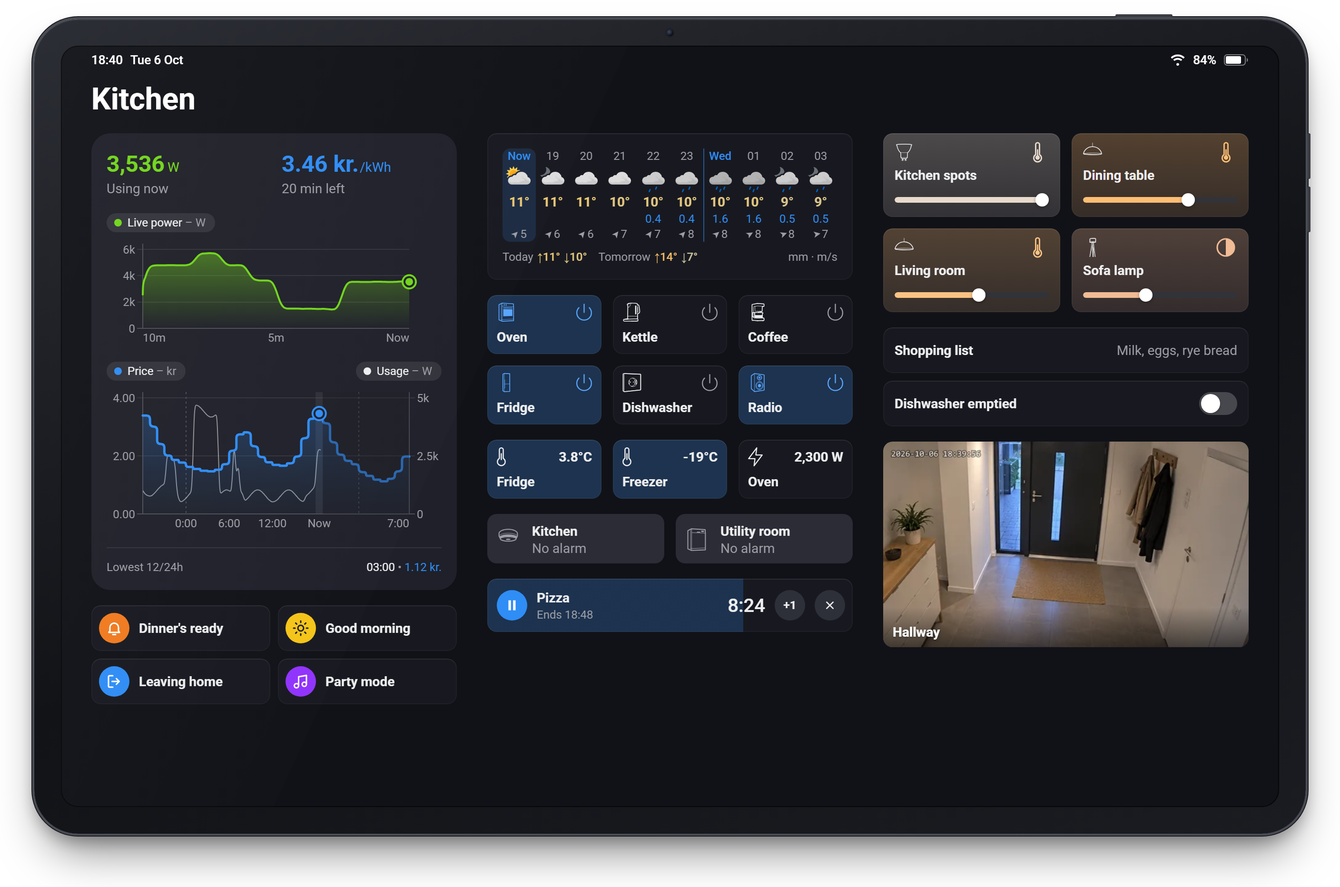
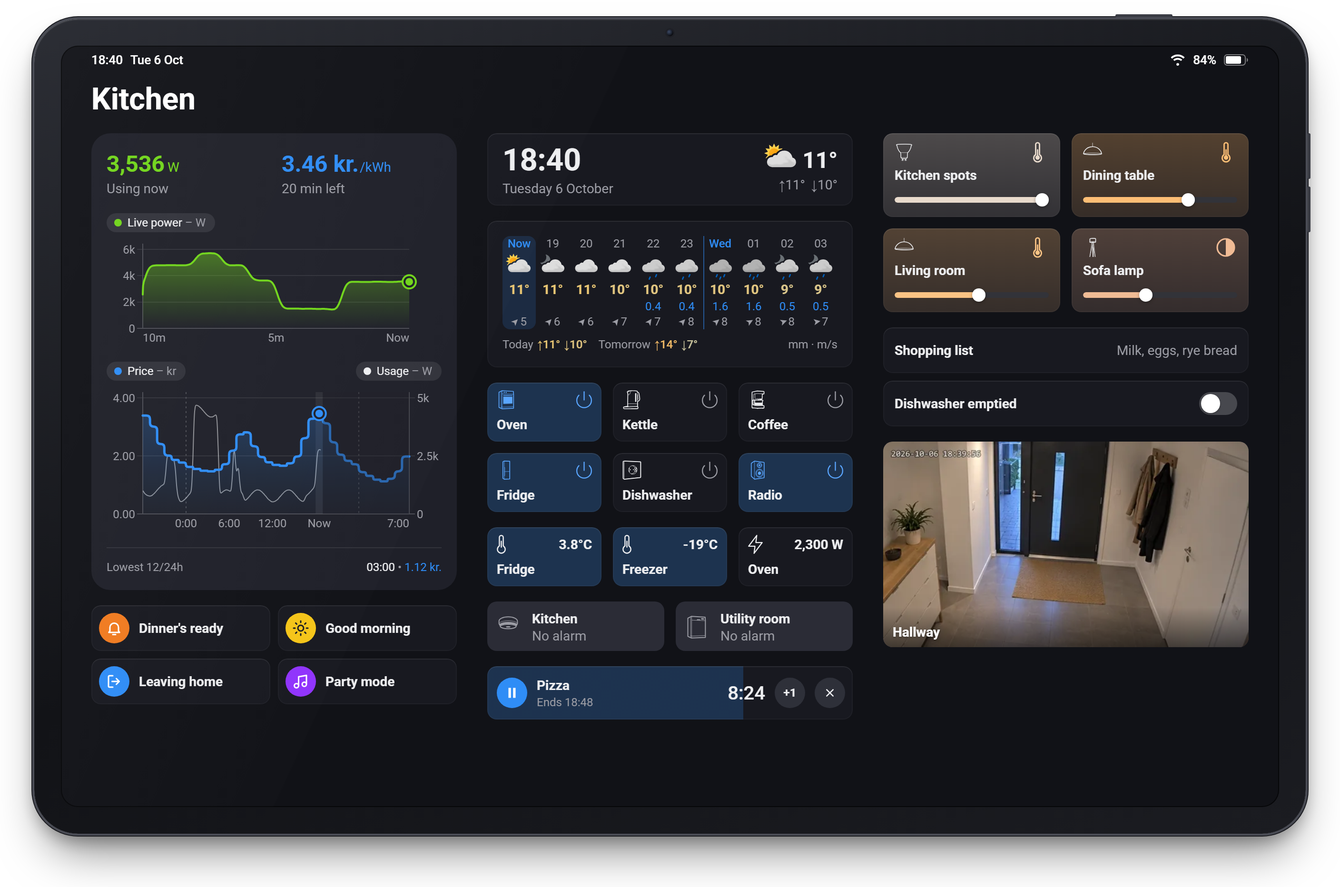
0.9.0 release prep: changelog, store text, posts, Clock on the Kitchen showcase

Changed region(s): [[0.3438, 0.1556, 0.6562, 0.809]]

diff --git a/dev/showcase.html b/dev/showcase.html
@@ -32,6 +32,7 @@
   <link rel="stylesheet" href="../widgets/sparklines/public/widget.css">
   <link rel="stylesheet" href="../widgets/media/public/widget.css">
   <link rel="stylesheet" href="../widgets/curtains/public/widget.css">
+  <link rel="stylesheet" href="../widgets/clock/public/widget.css">
   <script src="../widgets/electricity/public/widget.js"></script>
   <script src="../widgets/thermostat/public/widget.js"></script>
   <script src="../widgets/quickactions/public/widget.js"></script>
@@ -50,6 +51,7 @@
   <script src="../widgets/sparklines/public/widget.js"></script>
   <script src="../widgets/media/public/widget.js"></script>
   <script src="../widgets/curtains/public/widget.js"></script>
+  <script src="../widgets/clock/public/widget.js"></script>
   <script src="../temp/screenshot-icons.js" onerror="window.ICONS = {}"></script>
   <script src="mock-media.js"></script>
   <script src="mock-util.js"></script>

diff --git a/dev/showcase-data.js b/dev/showcase-data.js
@@ -98,6 +98,13 @@
       };
     });
   }
+  // The weather as the app's /clock reduces it: the current hour, and the rest of today's high and low.
+  function clockWeather() {
+    const hours = weatherHours();
+    const day = new Date(hours[0].t).toDateString();
+    const today = hours.filter(h => new Date(h.t).toDateString() === day).map(h => h.temp);
+    return { symbol: hours[0].symbol, temp: hours[0].temp, high: Math.max(...today), low: Math.min(...today), icon: null };
+  }
 
   // ---- Heatmaps: the last 7 days up to now, the way the app sends `/history`.
 
@@ -544,6 +551,7 @@
           ]),
         ],
         [
+          { type: 'clock', weather: clockWeather() },
           { type: 'weather', opts: { theme: 'vivid' }, hours: weatherHours() },
           { type: 'quickactions', devices: [
             { id: 'kq1', name: 'Oven', icon: icon('oven'), quickAction: qa('onoff', true) },

diff --git a/dev/mock-dashboard.js b/dev/mock-dashboard.js
@@ -52,8 +52,5 @@
 
   MOUNT.weather(el('w-weather'), { hours: findWidget('weather').hours });
 
-  // Home's weather, as the app's /clock reduces it: the current hour and the rest of today's high and low.
-  const hours = findWidget('weather').hours;
-  const today = hours.filter(h => new Date(h.t).toDateString() === new Date(hours[0].t).toDateString()).map(h => h.temp);
-  MOUNT.clock(el('w-clock'), { weather: { symbol: hours[0].symbol, temp: hours[0].temp, high: Math.max(...today), low: Math.min(...today), icon: null } });
+  MOUNT.clock(el('w-clock'), findWidget('clock'));
 })();

diff --git a/docs/community-post.md b/docs/community-post.md
@@ -17,9 +17,9 @@ Hi all,
 
 I've been building **Widgetkeeper**, an app with dashboard widgets for Homey Pro. My aim was widgets that sit next to Homey's own without standing out: the same tile sizes, fonts, colours and dark mode, so a dashboard still looks like one dashboard.
 
-> :white_check_mark: **Widgetkeeper 0.7.0 is live in the Homey App Store:** https://homey.app/a/com.thomassidor.widgetkeeper/
+> :white_check_mark: **Widgetkeeper 0.8.0 is live in the Homey App Store:** https://homey.app/a/com.thomassidor.widgetkeeper/
 >
-> :test_tube: **Test version:** the next version (0.8.0) with six new widgets is in testing. Widgets and changes marked :soon: **Next version** below are only in the test version for now: https://homey.app/a/com.thomassidor.widgetkeeper/test/
+> :test_tube: **Test version:** the next version (0.9.0), with four new widgets and web dashboards, is in testing. Widgets and changes marked :soon: **Next version** below are only in the test version for now: https://homey.app/a/com.thomassidor.widgetkeeper/test/
 
 ## The widgets
 
@@ -27,37 +27,42 @@ Tap a name for the full description and settings on GitHub.
 
 | | Widget |
 |---|---|
-| [![Electricity Overview|120x105](https://raw.githubusercontent.com/thomassidor/widgetkeeper/main/docs/previews/electricity-dark.png)](https://github.com/thomassidor/widgetkeeper#electricity-overview) | :zap: **[Electricity Overview](https://github.com/thomassidor/widgetkeeper#electricity-overview)**<br>Live power use, hourly electricity prices and usage history on one card |
-| [![Thermostat Shortcuts|120x105](https://raw.githubusercontent.com/thomassidor/widgetkeeper/main/docs/previews/thermostat-dark.png)](https://github.com/thomassidor/widgetkeeper#thermostat-shortcuts) | :thermometer: **[Thermostat Shortcuts](https://github.com/thomassidor/widgetkeeper#thermostat-shortcuts)**<br>Three one-tap presets for a thermostat, heat pump or air conditioner |
-| [![Device Quick Actions|120x105](https://raw.githubusercontent.com/thomassidor/widgetkeeper/main/docs/previews/quickactions-dark.png)](https://github.com/thomassidor/widgetkeeper#device-quick-actions) | :radio_button: **[Device Quick Actions](https://github.com/thomassidor/widgetkeeper#device-quick-actions)**<br>Compact tiles that run a device's quick action with one tap |
-| [![Sensor Alarms|120x105](https://raw.githubusercontent.com/thomassidor/widgetkeeper/main/docs/previews/sensoralarms-dark.png)](https://github.com/thomassidor/widgetkeeper#sensor-alarms) | :rotating_light: **[Sensor Alarms](https://github.com/thomassidor/widgetkeeper#sensor-alarms)**<br>Tiles that show a sensor's alarm and turn red when one is on |
-| [![Sensor Dots|120x105](https://raw.githubusercontent.com/thomassidor/widgetkeeper/main/docs/previews/sensordots-dark.png)](https://github.com/thomassidor/widgetkeeper#sensor-dots) | :large_blue_circle: **[Sensor Dots](https://github.com/thomassidor/widgetkeeper#sensor-dots)** :soon: **Next version**<br>Many motion and contact sensors at a glance, as dots that change colour when active |
-| [![Weather Forecast|120x105](https://raw.githubusercontent.com/thomassidor/widgetkeeper/main/docs/previews/weather-dark.png)](https://github.com/thomassidor/widgetkeeper#weather-forecast) | :sun_behind_rain_cloud: **[Weather Forecast](https://github.com/thomassidor/widgetkeeper#weather-forecast)**<br>The next 36 hours, hour by hour, from MET Norway (yr.no) |
-| [![Insights Heatmap|120x105](https://raw.githubusercontent.com/thomassidor/widgetkeeper/main/docs/previews/heatmap-dark.png)](https://github.com/thomassidor/widgetkeeper#insights-heatmap) | :calendar: **[Insights Heatmap](https://github.com/thomassidor/widgetkeeper#insights-heatmap)**<br>A week of one value (light, temperature, motion …) as a grid of weekdays and hours |
-| [![Cameras|120x105](https://raw.githubusercontent.com/thomassidor/widgetkeeper/main/docs/previews/cameras-dark.png)](https://github.com/thomassidor/widgetkeeper#cameras) | :movie_camera: **[Cameras](https://github.com/thomassidor/widgetkeeper#cameras)**<br>Two to six cameras in one grid of snapshots; tap one to watch it live |
-| [![Device Values|120x105](https://raw.githubusercontent.com/thomassidor/widgetkeeper/main/docs/previews/values-dark.png)](https://github.com/thomassidor/widgetkeeper#device-values) | :1234: **[Device Values](https://github.com/thomassidor/widgetkeeper#device-values)**<br>Compact tiles that each show one value, such as a temperature, power or on/off |
-| [![Light Controls|120x105](https://raw.githubusercontent.com/thomassidor/widgetkeeper/main/docs/previews/lights-dark.png)](https://github.com/thomassidor/widgetkeeper#light-controls) | :bulb: **[Light Controls](https://github.com/thomassidor/widgetkeeper#light-controls)**<br>Compact light tiles with brightness, colour and colour temperature: six lights in the space of three |
-| [![Sparklines|120x105](https://raw.githubusercontent.com/thomassidor/widgetkeeper/main/docs/previews/sparklines-dark.png)](https://github.com/thomassidor/widgetkeeper#sparklines) | :chart_with_upwards_trend: **[Sparklines](https://github.com/thomassidor/widgetkeeper#sparklines)**<br>Tiles with a small chart of a value over the last hour, day or week, with its lowest and highest |
-| [![Flow Variables|120x105](https://raw.githubusercontent.com/thomassidor/widgetkeeper/main/docs/previews/variables-dark.png)](https://github.com/thomassidor/widgetkeeper#flow-variables) | :twisted_rightwards_arrows: **[Flow Variables](https://github.com/thomassidor/widgetkeeper#flow-variables)** :soon: **Next version**<br>Compact rows to switch flow variables on and off or change a number or text, with the full name |
-| [![Flow Buttons|120x105](https://raw.githubusercontent.com/thomassidor/widgetkeeper/main/docs/previews/flows-dark.png)](https://github.com/thomassidor/widgetkeeper#flow-buttons) | :arrow_forward: **[Flow Buttons](https://github.com/thomassidor/widgetkeeper#flow-buttons)** :soon: **Next version**<br>Start flows with one tap: a round button in the colour and icon you pick, with the flow's name |
-| [![Price Badge|120x105](https://raw.githubusercontent.com/thomassidor/widgetkeeper/main/docs/previews/price-dark.png)](https://github.com/thomassidor/widgetkeeper#price-badge) | :moneybag: **[Price Badge](https://github.com/thomassidor/widgetkeeper#price-badge)** :soon: **Next version**<br>The electricity price now, the next hour's and the cheapest hour ahead in one compact tile |
-| [![Timers|120x105](https://raw.githubusercontent.com/thomassidor/widgetkeeper/main/docs/previews/timers-dark.png)](https://github.com/thomassidor/widgetkeeper#timers) | :stopwatch: **[Timers](https://github.com/thomassidor/widgetkeeper#timers)** :soon: **Next version**<br>Kitchen timers from one-tap presets, with a Flow card when one runs out |
-| [![Locks and Doors|120x105](https://raw.githubusercontent.com/thomassidor/widgetkeeper/main/docs/previews/locks-dark.png)](https://github.com/thomassidor/widgetkeeper#locks-and-doors) | :lock: **[Locks and Doors](https://github.com/thomassidor/widgetkeeper#locks-and-doors)** :soon: **Next version**<br>One line that says whether every lock and door is locked and closed |
+| [![Electricity Overview|120x105](upload://oMEhI5X6oylOIbhUrqxxiyUoxzf.png)](https://github.com/thomassidor/widgetkeeper#electricity-overview) | **[Electricity Overview](https://github.com/thomassidor/widgetkeeper#electricity-overview)**<br>Live power use, hourly electricity prices and usage history on one card |
+| [![Thermostat Shortcuts|120x105](upload://g66Fnaa42AMdem0f5uFgnQ3hR5q.png)](https://github.com/thomassidor/widgetkeeper#thermostat-shortcuts) | **[Thermostat Shortcuts](https://github.com/thomassidor/widgetkeeper#thermostat-shortcuts)**<br>Three one-tap presets for a thermostat, heat pump or air conditioner |
+| [![Device Quick Actions|120x105](upload://yTXsDGAub174pYWjS1DGcv7xqsu.png)](https://github.com/thomassidor/widgetkeeper#device-quick-actions) | **[Device Quick Actions](https://github.com/thomassidor/widgetkeeper#device-quick-actions)**<br>Compact tiles that run a device's quick action with one tap |
+| [![Sensor Alarms|120x105](upload://m4NlWt6CsNVfv1DykQjmhPlBGu4.png)](https://github.com/thomassidor/widgetkeeper#sensor-alarms) | **[Sensor Alarms](https://github.com/thomassidor/widgetkeeper#sensor-alarms)**<br>Tiles that show a sensor's alarm and turn red when one is on |
+| [![Sensor Dots|120x105](upload://iK67QdGwZXYwsSxzTNqUiFBwG5b.png)](https://github.com/thomassidor/widgetkeeper#sensor-dots) | **[Sensor Dots](https://github.com/thomassidor/widgetkeeper#sensor-dots)**<br>Many motion and contact sensors at a glance, as dots that change colour when active |
+| [![Weather Forecast|120x105](upload://mSq2ChXKzi7UUZf9yHQwzP4NNpe.png)](https://github.com/thomassidor/widgetkeeper#weather-forecast) | **[Weather Forecast](https://github.com/thomassidor/widgetkeeper#weather-forecast)**<br>The next 36 hours, hour by hour, from MET Norway (yr.no) |
+| [![Insights Heatmap|120x105](upload://3gUl8mI2CJoJV7zKr6tEYUYoeYl.png)](https://github.com/thomassidor/widgetkeeper#insights-heatmap) | **[Insights Heatmap](https://github.com/thomassidor/widgetkeeper#insights-heatmap)**<br>A week of one value (light, temperature, motion …) as a grid of weekdays and hours |
+| [![Cameras|120x105](upload://6Q5LXvEo1fkSIC3v4ggQGBZTySd.png)](https://github.com/thomassidor/widgetkeeper#cameras) | **[Cameras](https://github.com/thomassidor/widgetkeeper#cameras)**<br>Two to six cameras in one grid of snapshots; tap one to watch it live |
+| [![Device Values|120x105](upload://zgUYM1Up2RJzfH0SpDCXRe65zL0.png)](https://github.com/thomassidor/widgetkeeper#device-values) | **[Device Values](https://github.com/thomassidor/widgetkeeper#device-values)**<br>Compact tiles that each show one value, such as a temperature, power or on/off |
+| [![Light Controls|120x105](upload://AjYtZ7AZ1HgIlONXnxY3mLs3bZQ.png)](https://github.com/thomassidor/widgetkeeper#light-controls) | **[Light Controls](https://github.com/thomassidor/widgetkeeper#light-controls)**<br>Compact light tiles with brightness, colour and colour temperature: six lights in the space of three |
+| [![Sparklines|120x105](upload://2O6XmLisgL4by57eSyvK95N9CCK.png)](https://github.com/thomassidor/widgetkeeper#sparklines) | **[Sparklines](https://github.com/thomassidor/widgetkeeper#sparklines)**<br>Tiles with a small chart of a value over the last hour, day or week, with its lowest and highest |
+| [![Flow Variables|120x105](upload://2yC3iwyQorF7EgKbHAXj0DVeaPb.png)](https://github.com/thomassidor/widgetkeeper#flow-variables) | **[Flow Variables](https://github.com/thomassidor/widgetkeeper#flow-variables)**<br>Compact rows to switch flow variables on and off or change a number or text, with the full name |
+| [![Flow Buttons|120x105](upload://7AaGEulpsjMyTI3zoYF2EWrkwmf.png)](https://github.com/thomassidor/widgetkeeper#flow-buttons) | **[Flow Buttons](https://github.com/thomassidor/widgetkeeper#flow-buttons)**<br>Start flows with one tap: a round button in the colour and icon you pick, with the flow's name |
+| [![Price Badge|120x105](https://raw.githubusercontent.com/thomassidor/widgetkeeper/main/docs/previews/price-dark.png)](https://github.com/thomassidor/widgetkeeper#price-badge) | **[Price Badge](https://github.com/thomassidor/widgetkeeper#price-badge)** :soon: **New look in the next version**<br>The electricity price now and the coming hours as small bars, green, yellow or red |
+| [![Timers|120x105](upload://pPwDIqa3j2tlueBKsKXFT86XgQk.png)](https://github.com/thomassidor/widgetkeeper#timers) | **[Timers](https://github.com/thomassidor/widgetkeeper#timers)**<br>Kitchen timers from one-tap presets, with a Flow card when one runs out |
+| [![Locks and Doors|120x105](upload://hgmETIkMBWjejFXPGKqlK1gzA2V.png)](https://github.com/thomassidor/widgetkeeper#locks-and-doors) | **[Locks and Doors](https://github.com/thomassidor/widgetkeeper#locks-and-doors)**<br>One line that says whether every lock and door is locked and closed |
+| [![Curtains|120x105](https://raw.githubusercontent.com/thomassidor/widgetkeeper/main/docs/previews/curtains-dark.png)](https://github.com/thomassidor/widgetkeeper#curtains) | **[Curtains](https://github.com/thomassidor/widgetkeeper#curtains)** :soon: **Next version**<br>Curtains and blinds that open or close with one tap, with a slider for anything in between |
+| [![Media|120x105](https://raw.githubusercontent.com/thomassidor/widgetkeeper/main/docs/previews/media-dark.png)](https://github.com/thomassidor/widgetkeeper#media) | **[Media](https://github.com/thomassidor/widgetkeeper#media)** :soon: **Next version**<br>A speaker with its album art, mute, a volume that never overshoots and buttons for its sources |
+| [![Smart Stack|120x105](https://raw.githubusercontent.com/thomassidor/widgetkeeper/main/docs/previews/stack-dark.png)](https://github.com/thomassidor/widgetkeeper#smart-stack) | **[Smart Stack](https://github.com/thomassidor/widgetkeeper#smart-stack)** :soon: **Next version**<br>Several widgets in one spot, one at a time, with the one that matters brought forward |
+| [![Clock|120x105](https://raw.githubusercontent.com/thomassidor/widgetkeeper/main/docs/previews/clock-dark.png)](https://github.com/thomassidor/widgetkeeper#clock) | **[Clock](https://github.com/thomassidor/widgetkeeper#clock)** :soon: **Next version**<br>The time and the date, with the weather now and today's high and low |
 
 Every widget follows Homey's light and dark mode and is translated into all 13 of Homey's languages.
 
-## :soon: What's new in the next version (0.8.0)
+## :soon: What's new in the next version (0.9.0)
 
-Besides the six new widgets above:
+Besides the four new widgets above:
 
-* **Electricity Overview:** supports a fixed electricity price set in Homey Energy, shows solar export below zero in yellow, and the prices can be hidden.
-* **Device Values:** a Flow can colour a tile, such as red when the fridge is too warm.
-* **Light Controls:** plugs and wall switches set up as lights can be picked too, and a setting stops the brightness bar at 1 % instead of turning the light off.
-* **Insights Heatmap:** pick the colour.
-* **Thermostat Shortcuts:** a preset now always sets its temperature, also on aircons that keep a temperature per mode.
-* Clearer setting names and help texts, and a brief connection problem no longer hides a widget.
+* **Web dashboards:** your Widgetkeeper widgets in any browser on your home network, such as a wall tablet, an old iPad, a computer or a TV. Build the dashboards on the page itself; turn them on under **Apps → Widgetkeeper → Configure**.
+* **Electricity prices** now include the tariffs and taxes set up in Homey Energy, so they match Homey's own Energy tab (can be turned off).
+* **Price Badge:** a new look, with the coming 12, 24 or 36 hours as small bars and a dot over the cheapest.
+* **Tile names:** give tiles, rows and buttons your own names in Device Values, Flow Variables, Flow Buttons and Sensor Alarms.
+* **Electricity Overview** and **Thermostat Shortcuts:** a compact layout.
+* **Sparklines:** 2, 3 and 5 day spans. **Cameras:** cameras with only a video stream (such as Aqara) show a still from it.
+* **Locks and Doors:** a calmer list, with secure states in green and the rest in red.
 
-Flow Buttons and Flow Variables need a Homey API key, which you add in the app's settings (**Apps → Widgetkeeper → Configure**).
+Flow Buttons, Flow Variables, Smart Stack and Media's buttons need a Homey API key, which you add in the app's settings (**Apps → Widgetkeeper → Configure**).
 
 ## Dashboard examples
 
@@ -65,23 +70,23 @@ Seven dashboards from a made-up house, on a tablet in Homey's dark mode. Swipe t
 
 [grid mode=carousel]
 
-![Home dashboard|690x457](https://raw.githubusercontent.com/thomassidor/widgetkeeper/main/docs/showcase/home.png)
+![Home dashboard|690x457](upload://hfq6wmR7epDOiBus9DcPc7f1E31.jpeg)
 
-![Energy dashboard|690x457](https://raw.githubusercontent.com/thomassidor/widgetkeeper/main/docs/showcase/energy.png)
+![Energy dashboard|690x457](upload://fuKGZXGJqUzp85f6iROFWPo45Y0.jpeg)
 
-![Security dashboard|690x457](https://raw.githubusercontent.com/thomassidor/widgetkeeper/main/docs/showcase/security.png)
+![Security dashboard|690x457](upload://eh7PyyQ9xdT3nAzCGlIZmyNW53L.jpeg)
 
-![Climate dashboard|690x457](https://raw.githubusercontent.com/thomassidor/widgetkeeper/main/docs/showcase/climate.png)
+![Climate dashboard|690x457](upload://dZdzZlrILehWKSAXPECn8BVbBu4.jpeg)
 
-![Evening dashboard|690x457](https://raw.githubusercontent.com/thomassidor/widgetkeeper/main/docs/showcase/evening.png)
+![Evening dashboard|690x457](upload://1Ip9LoGsmwR18kPaOFx7ssFlp2J.jpeg)
 
-![Garden dashboard|690x457](https://raw.githubusercontent.com/thomassidor/widgetkeeper/main/docs/showcase/garden.png)
+![Garden dashboard|690x457](upload://5NRipDaEKeUr5FFmjH14KDkcfCn.jpeg)
 
 ![Kitchen dashboard|690x457](https://raw.githubusercontent.com/thomassidor/widgetkeeper/main/docs/showcase/kitchen.png)
 
 [/grid]
 
-**Home**, **Energy**, **Security**, **Climate**, **Evening**, **Garden** and **Kitchen**. Some of them use widgets from the next version. What's on each one: https://github.com/thomassidor/widgetkeeper#dashboard-examples
+**Home**, **Energy**, **Security**, **Climate**, **Evening**, **Garden** and **Kitchen**. Some of them use widgets from the next version (the Kitchen has the new Clock, the Evening the Curtains and Media). What's on each one: https://github.com/thomassidor/widgetkeeper#dashboard-examples
 
 ## :speech_balloon: Feedback wanted
 

diff --git a/CLAUDE.md b/CLAUDE.md
@@ -26,7 +26,7 @@ Homey Pro app (`com.thomassidor.widgetkeeper`) that hosts custom dashboard widge
   - Six so far (`lights`, `stack`, `media`, `timers`, `sensordots`, `curtains`; 15–23 s, 0.16–0.65 MB); in the README the Light Controls, Sensor Dots, Timers, Curtains and Media clips replaced their screenshots (their PNGs and shots were removed), and the stack's tops its section. The timers clip has a simulated app answering `/start` and the actions (`almostDone` skips to the last seconds); the sensor dots clip's `comeHome` pushes a front door and two motion sensors; the curtains clip simulates the motors as `dev/curtains-preview.html` does.
 - `npm run showcase [-- home energy security]`: renders the showcase dashboards (`docs/showcase/<id>.png`; the README's top image is `home.png`, and its Dashboard examples section shows all seven: `home`, `energy`, `security`, `climate`, `evening`, `garden` and `kitchen`) from `dev/showcase.html?d=<id>`: three columns of the real widgets on Homey's dark dashboard, on a drawn 16:10 tablet (a 1280 × 800 screen), at 2x on a transparent background.
   - The data is a made-up house, "Solbakken", on Tuesday 6 October 2026 at 18:40 (`dev/showcase-data.js`); `dev/fixed-clock.js` replaces `Date` to fix the clock (also loaded by the screenshots and clips pages), so every render is the same. The electricity widget uses `smooth`.
-  - Energy has the Price Badge, Security Locks and Doors (one line: the shed unlocked and the garage open; the README screenshot shows its list) Kitchen a pizza timer (in place of a "Pizza timer" variable) and Evening two curtains (one closing) and the Media widget (the condensed layout: − and + by play, no progress; `mountMockMedia()` from `dev/mock-media.js`).
+  - Energy has the Price Badge, Security Locks and Doors (one line: the shed unlocked and the garage open; the README screenshot shows its list) Kitchen a pizza timer (in place of a "Pizza timer" variable) and the Clock above its weather (Home has no room: its third column ran 80 px off), and Evening two curtains (one closing) and the Media widget (the condensed layout: − and + by play, no progress; `mountMockMedia()` from `dev/mock-media.js`).
   - A dashboard is `SHOWCASE[id] = { title, columns: [[{ type, … }]] }`; `MOUNT` in `dev/showcase-mount.js` (shared with the screenshots and clips) creates each widget type. A new dashboard is a new entry; `thermo()` (a thermostat with three temperature presets) and `flowButtons()` build the newer ones.
   - The cameras (showcase and README screenshots) show `dev/cameras/<id>.webp`: AI-generated snapshots of the made-up house, cut from one picture to 640 × 360 with the timestamp baked in. The dev previews keep the drawn scenes of `dev/mock-cameras.js`.
   - The script warns when a column runs off the screen (it's cut off, like a dashboard you'd scroll).
@@ -370,7 +370,7 @@ How this project uses it:
 - Setting: `showWeather` (checkbox, on by default; `mount.js` treats a missing value as on). Off, `/clock` is asked with `weather=0` and reads no forecast.
 - Endpoint: `GET /clock?weather=1` → `{language, weather}`. No service of its own: `widgets/clock/api.ts` calls `app.weather.getForecast()` (so no extra MET traffic, and the forecast's 10-min idle drop is Weather Forecast's) and reduces it with `clockWeather()`: `{symbol, temp, high, low, icon}` (the first hour, i.e. the current one; the high and low of the forecast's hours on the same local day in Homey's timezone, from the current hour on, as the Weather Forecast's footer; the symbol's SVG) or `{noLocation: true}`. The widget hides the weather without a location or a temperature; a failed read keeps what's shown (none on the first), and the clock never shows an error. The widget refetches every 5 min.
 - Icon: a data URL of the SVG, else `../weather/icons/<symbol>.svg` (the Weather Forecast's files, served next to this widget).
-- The README screenshot reduces the showcase's weather the same way in `dev/mock-dashboard.js`.
+- The showcase's Clock gets the made-up weather reduced the same way (`clockWeather()` in `dev/showcase-data.js`); the README screenshot is that widget (`findWidget('clock')`).
 
 ## Smart Stack widget
 - Our widgets from another dashboard, one at a time (the user's idea: an iOS-style Smart Stack). The user sets up a dashboard of the widgets to rotate and picks it in the `dashboard` autocomplete. `lib/StackService.ts` reads it; `widgets/stack/` is the widget. Transparent.

diff --git a/docs/community-post-0.9.0.md b/docs/community-post-0.9.0.md
@@ -1,0 +1,59 @@
+<!--
+A reply in the Homey Community topic (homeyCommunityTopicId 160453) announcing 0.9.0 in the test version.
+Paste everything below this comment into the forum editor.
+
+- Images are the README's on GitHub main (docs/clips/*.webp are animated, docs/screenshots/clock.png);
+  Discourse copies them on save. Push them before posting.
+- When 0.9.0 goes live, say so in a short reply of its own and update the first post.
+-->
+
+## :test_tube: Widgetkeeper 0.9.0 is in testing
+
+Four new widgets and web dashboards. Try them in the test version: https://homey.app/a/com.thomassidor.widgetkeeper/test/
+
+### :framed_picture: Smart Stack
+
+Several widgets in the space of one, like a Smart Stack on a phone. Set up a dashboard with the widgets to rotate, then pick it in the stack. It turns every 30 seconds, and brings a widget forward while something happens on it: music plays, a timer runs, a camera sees someone, a door is open. A Flow card can bring one forward too.
+
+![Smart Stack|382x323](https://raw.githubusercontent.com/thomassidor/widgetkeeper/main/docs/clips/stack.webp)
+
+### :window: Curtains
+
+Tap a tile to open or close a curtain or blind, the way it used to work in Homey. The label in the corner always says which it will do, and the slider sets anything in between.
+
+![Curtains|358x276](https://raw.githubusercontent.com/thomassidor/widgetkeeper/main/docs/clips/curtains.webp)
+
+### :speaker: Media
+
+One speaker as a card, with mute, a volume that never overshoots or passes your maximum, and *TV* instead of old album art. Tap the name to switch speaker. Up to four buttons run the speaker's own actions (such as *Set source to TV*) or flows.
+
+![Media|358x268](https://raw.githubusercontent.com/thomassidor/widgetkeeper/main/docs/clips/media.webp)
+
+### :clock3: Clock
+
+The time and the date, with the weather now and today's high and low.
+
+![Clock|358x76](https://raw.githubusercontent.com/thomassidor/widgetkeeper/main/docs/screenshots/clock.png)
+
+### :desktop_computer: Web dashboards
+
+Your Widgetkeeper widgets in any browser on your home network: a wall tablet, an old iPad, a computer or a TV. Build the dashboards on the page itself, with the same settings and live updates as on Homey. Turn them on under **Apps → Widgetkeeper → Configure**; the page asks for a Homey API key, and optionally a password.
+
+### Also new
+
+* Electricity prices include the tariffs and taxes from Homey Energy, so they match Homey's Energy tab.
+* Price Badge: a new look, with the coming hours as bars.
+* Your own names for tiles, rows and buttons.
+* A compact layout for Electricity Overview and Thermostat Shortcuts.
+* Sparklines: 2, 3 and 5 day spans. Cameras with only a video stream (such as Aqara) show a still from it.
+
+Full list: https://github.com/thomassidor/widgetkeeper/blob/main/CHANGELOG.md
+
+### :speech_balloon: Especially useful to hear
+
+* **Smart Stack on Android:** does swiping work, or only the dots?
+* **Media:** the source buttons and album art with your speakers.
+* **Web dashboards** on a tablet, an iPad or a TV browser.
+* **Aqara and other cameras** without snapshots.
+
+Thanks for all the feedback so far :slight_smile:

diff --git a/CHANGELOG.md b/CHANGELOG.md
@@ -12,7 +12,7 @@ All notable changes to Widgetkeeper. The version numbers match the Homey app ver
 - Widgetkeeper widgets in any browser on your home network (a wall tablet, a computer, a TV), with the same settings and live updates as on a Homey dashboard. The address is in the app settings.
 - Build the dashboards on the page itself: columns of widgets, moved and set up in place, in light, dark or automatic. Drag a widget by its bar to move it. They're kept on your Homey.
 - Off until you turn them on in the app settings.
-- The front page shows your dashboards as cards with a miniature of their widgets, and a carousel of every widget with a short description.
+- The front page shows your dashboards as cards with a miniature of their widgets, and a card that steps through every widget with a short description.
 - Choosing devices: a large picker with the devices grouped by room, room filters, search and Select all per room; the chosen devices are listed in order and can be dragged into a new order.
 - The page asks for a Homey API key, which stays in that browser.
 - Optionally also a password, set in the app settings, which every browser must enter after its key.
@@ -69,6 +69,9 @@ All notable changes to Widgetkeeper. The version numbers match the Homey app ver
 - A calmer list: each device's state is green when it's secure and red when it isn't, and every button is the same grey.
 - **Lock all** sits in the top line while the list is open.
 - A lock that hasn't reported yet is never shown as locked.
+
+### Cameras
+- Cameras without snapshots, only a video stream (such as Aqara cameras), now show a still taken from the video, refreshed every minute or so.
 
 ### Flow Buttons
 - 44 icons, each shown with a picture in the settings.

diff --git a/README.md b/README.md
@@ -138,7 +138,7 @@ A week of one Insights value as a grid of days and hours: numbers such as light 
 ## Cameras
 <img src="docs/screenshots/cameras.png" alt="Cameras on a Homey dashboard" width="358">
 
-Your cameras as a grid of snapshots that refresh every few seconds. Tap one to watch it live.
+Your cameras as a grid of snapshots that refresh every few seconds (cameras with only a video stream show a still from it). Tap one to watch it live.
 
 **Settings:** cameras, refresh interval.
 
